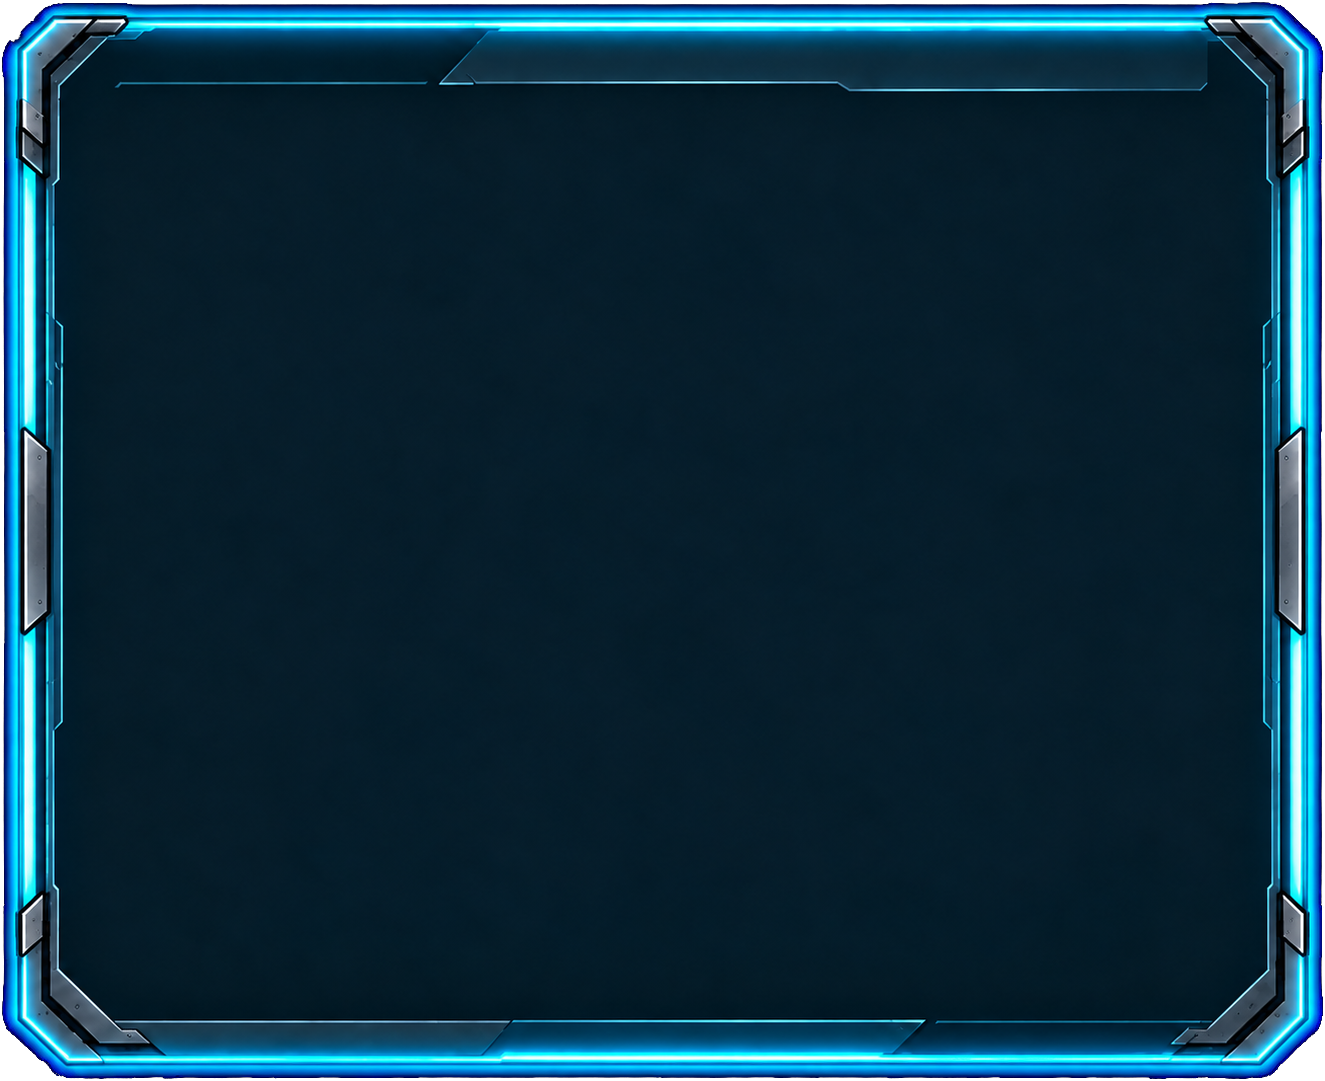
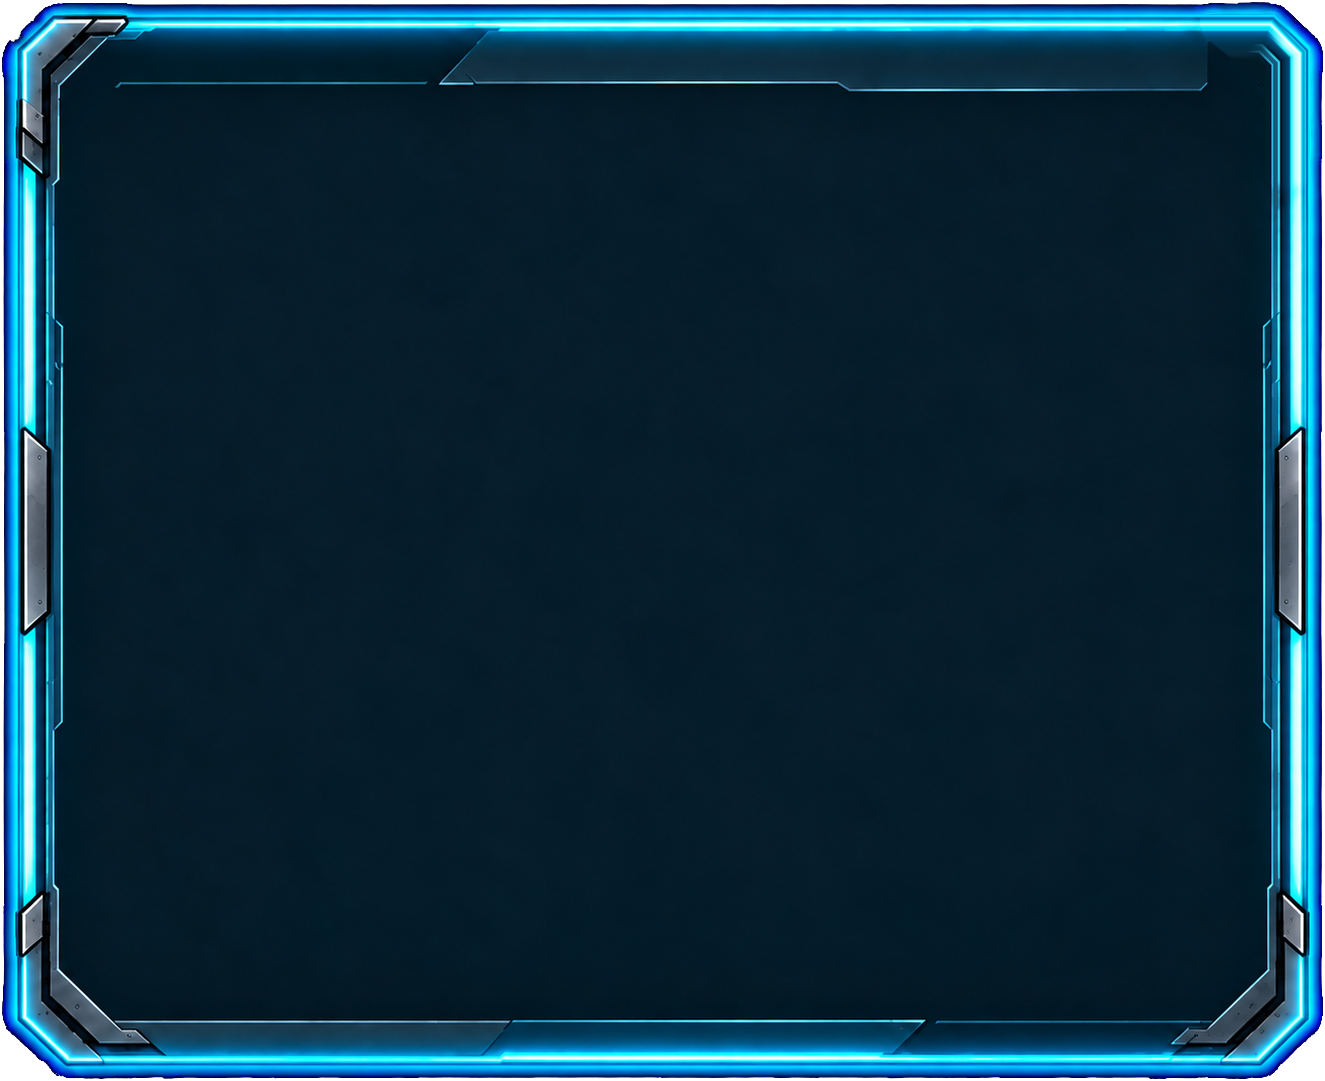
fix(ui): 퀘스트 상세창 X 버튼을 위로 조정하고 오른쪽 위 브래킷을 제거함 (#267)
- 닫기 버튼 위치를 (-72, -92)로 조정하고 빌더·EditMode·PlayMode 테스트 기대값을 맞춤
- quest-particular-frame.png 오른쪽 위 금속 브래킷만 제거한 이미지로 교체 (크기·알파 동일)

Changed region(s): [[0.8974, 0.0, 0.9902, 0.1832]]

diff --git a/sub-terra/Assets/_Project/Tests/EditMode/App/Tutorial/PromptB107QuestUiTests.cs b/sub-terra/Assets/_Project/Tests/EditMode/App/Tutorial/PromptB107QuestUiTests.cs
@@ -27,7 +27,7 @@ namespace SubTerra.App.Tests.Tutorial
             void Check(Transform target)
             {
                 var rect = (RectTransform)target;
-                Assert.That(rect.anchoredPosition, Is.EqualTo(new Vector2(-72f, -72f)));
+                Assert.That(rect.anchoredPosition, Is.EqualTo(new Vector2(-72f, -92f)));
                 Assert.That(rect.sizeDelta, Is.EqualTo(new Vector2(61f, 61f)));
                 Assert.That(target.GetComponent<UnityEngine.UI.Mask>().showMaskGraphic, Is.False);
                 Assert.That(target.GetComponent<UnityEngine.UI.Image>().sprite.name, Is.EqualTo("quest-close-corner-mask"));
@@ -44,7 +44,7 @@ namespace SubTerra.App.Tests.Tutorial
                     Assert.That(image.offsetMax, Is.EqualTo(Vector2.zero));
                 }
                 PromptB107QuestUiBuilder.ApplyDetailsCloseLayout(rect);
-                Assert.That(rect.anchoredPosition, Is.EqualTo(new Vector2(-72f, -72f)));
+                Assert.That(rect.anchoredPosition, Is.EqualTo(new Vector2(-72f, -92f)));
             }
         }
 

diff --git a/sub-terra/Assets/_Project/Tests/PlayMode/Integration/Bootstrap/Issue267QuestCloseTests.cs b/sub-terra/Assets/_Project/Tests/PlayMode/Integration/Bootstrap/Issue267QuestCloseTests.cs
@@ -81,7 +81,7 @@ namespace SubTerra.App.Tests.PlayMode
                     float left = corners[0].x;
                     title.GetWorldCorners(corners);
                     Assert.That(left, Is.GreaterThan(corners[2].x), "X overlaps title");
-                    Assert.That(rect.anchoredPosition, Is.EqualTo(new Vector2(-72f, -72f)));
+                    Assert.That(rect.anchoredPosition, Is.EqualTo(new Vector2(-72f, -92f)));
                     Assert.That(rect.sizeDelta, Is.EqualTo(new Vector2(61f, 61f)));
                     Assert.That(close.GetComponent<UnityEngine.UI.Mask>().showMaskGraphic, Is.False);
                     UiTestWait.AssertClickTarget(close);

diff --git a/sub-terra/Assets/_Project/Editor/DataValidation/PromptB107QuestUiBuilder.cs b/sub-terra/Assets/_Project/Editor/DataValidation/PromptB107QuestUiBuilder.cs
@@ -34,7 +34,7 @@ namespace SubTerra.App.Editor.DataValidation
 
         public static void ApplyDetailsCloseLayout(RectTransform close)
         {
-            Place(close, -72f, -72f, 61f, 61f, Vector2.one, new Vector2(.5f, .5f));
+            Place(close, -72f, -92f, 61f, 61f, Vector2.one, new Vector2(.5f, .5f));
             var image = close.GetComponent<UnityEngine.UI.Image>();
             image.sprite = LoadCloseCornerMask();
             image.color = Color.white;
